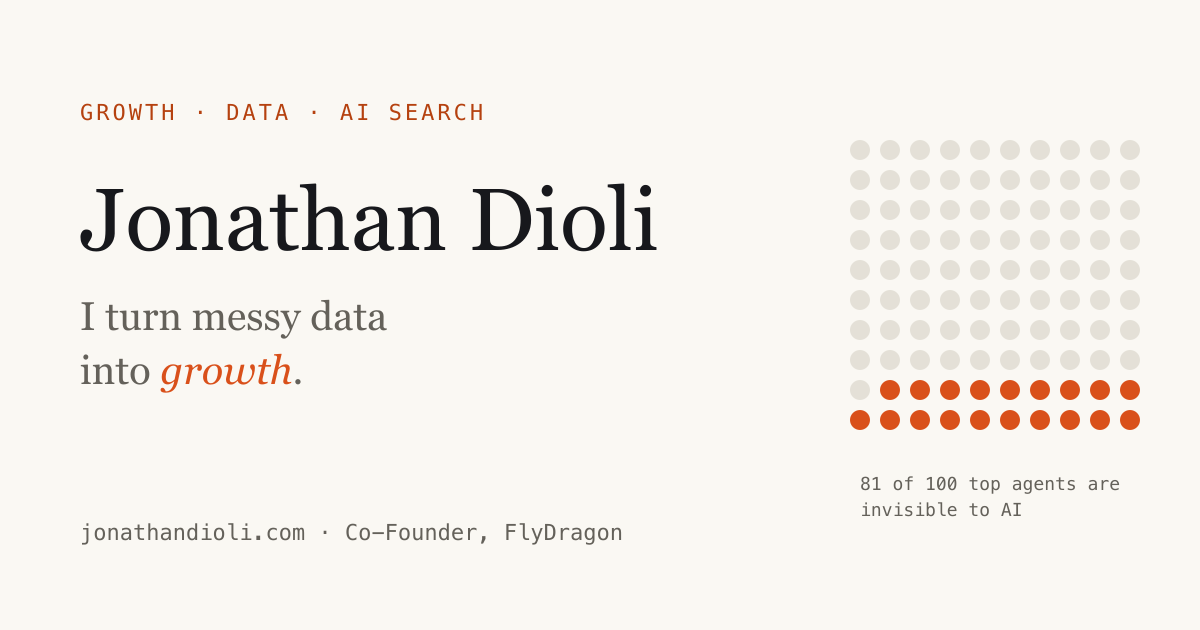
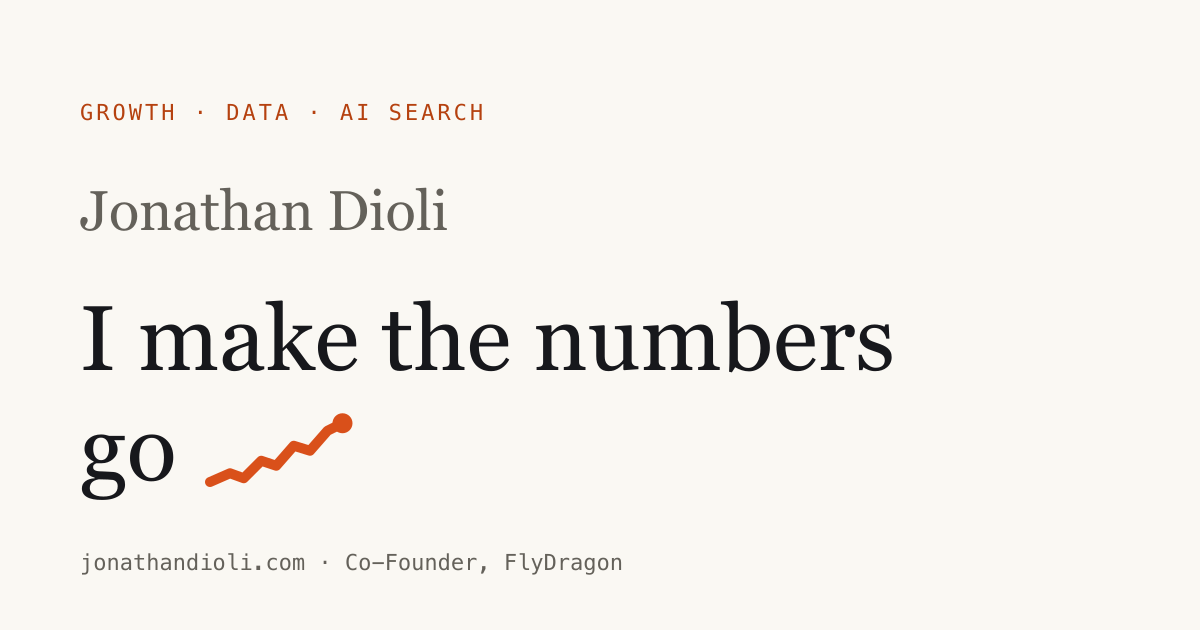
Replace italic hero accent with inline sparkline headline

diff --git a/src/styles/global.css b/src/styles/global.css
@@ -42,7 +42,13 @@ section.hero { border-top: 0; }
 }
 h1, h2, h3 { font-family: var(--serif); font-weight: 400; letter-spacing: -0.015em; margin: 0; }
 h1 { font-size: clamp(42px, 6.4vw, 84px); line-height: 1.02; }
-h1 em { font-style: italic; color: var(--ember); }
+h1 .nowrap { white-space: nowrap; }
+.spark { display: inline-block; width: 1.55em; height: .85em; margin-left: .16em; vertical-align: -0.02em; overflow: visible; }
+.spark path { fill: none; stroke: var(--ember); stroke-width: 9; stroke-linecap: round; stroke-linejoin: round; stroke-dasharray: 1; stroke-dashoffset: 0; animation: spark-draw 1.4s cubic-bezier(.6,0,.2,1) .25s both; }
+.spark circle { fill: var(--ember); animation: spark-pop .35s ease-out 1.55s both; transform-origin: 110px 9px; }
+@keyframes spark-draw { from { stroke-dashoffset: 1; } to { stroke-dashoffset: 0; } }
+@keyframes spark-pop { from { transform: scale(0); } 70% { transform: scale(1.3); } to { transform: scale(1); } }
+.sr-only { position: absolute; width: 1px; height: 1px; padding: 0; margin: -1px; overflow: hidden; clip: rect(0 0 0 0); white-space: nowrap; border: 0; }
 .chat-a .who.ai, .eyebrow { color: var(--ember-ink); }
 h2 { font-size: clamp(32px, 4.2vw, 54px); line-height: 1.08; }
 .section-h { max-width: 18ch; margin-bottom: 48px; }
@@ -174,6 +180,7 @@ p { margin: 0 0 16px; }
 }
 @media (prefers-reduced-motion: reduce) {
   html { scroll-behavior: auto; }
+  .spark path, .spark circle { animation: none; }
   * { transition: none !important; }
 }
 
